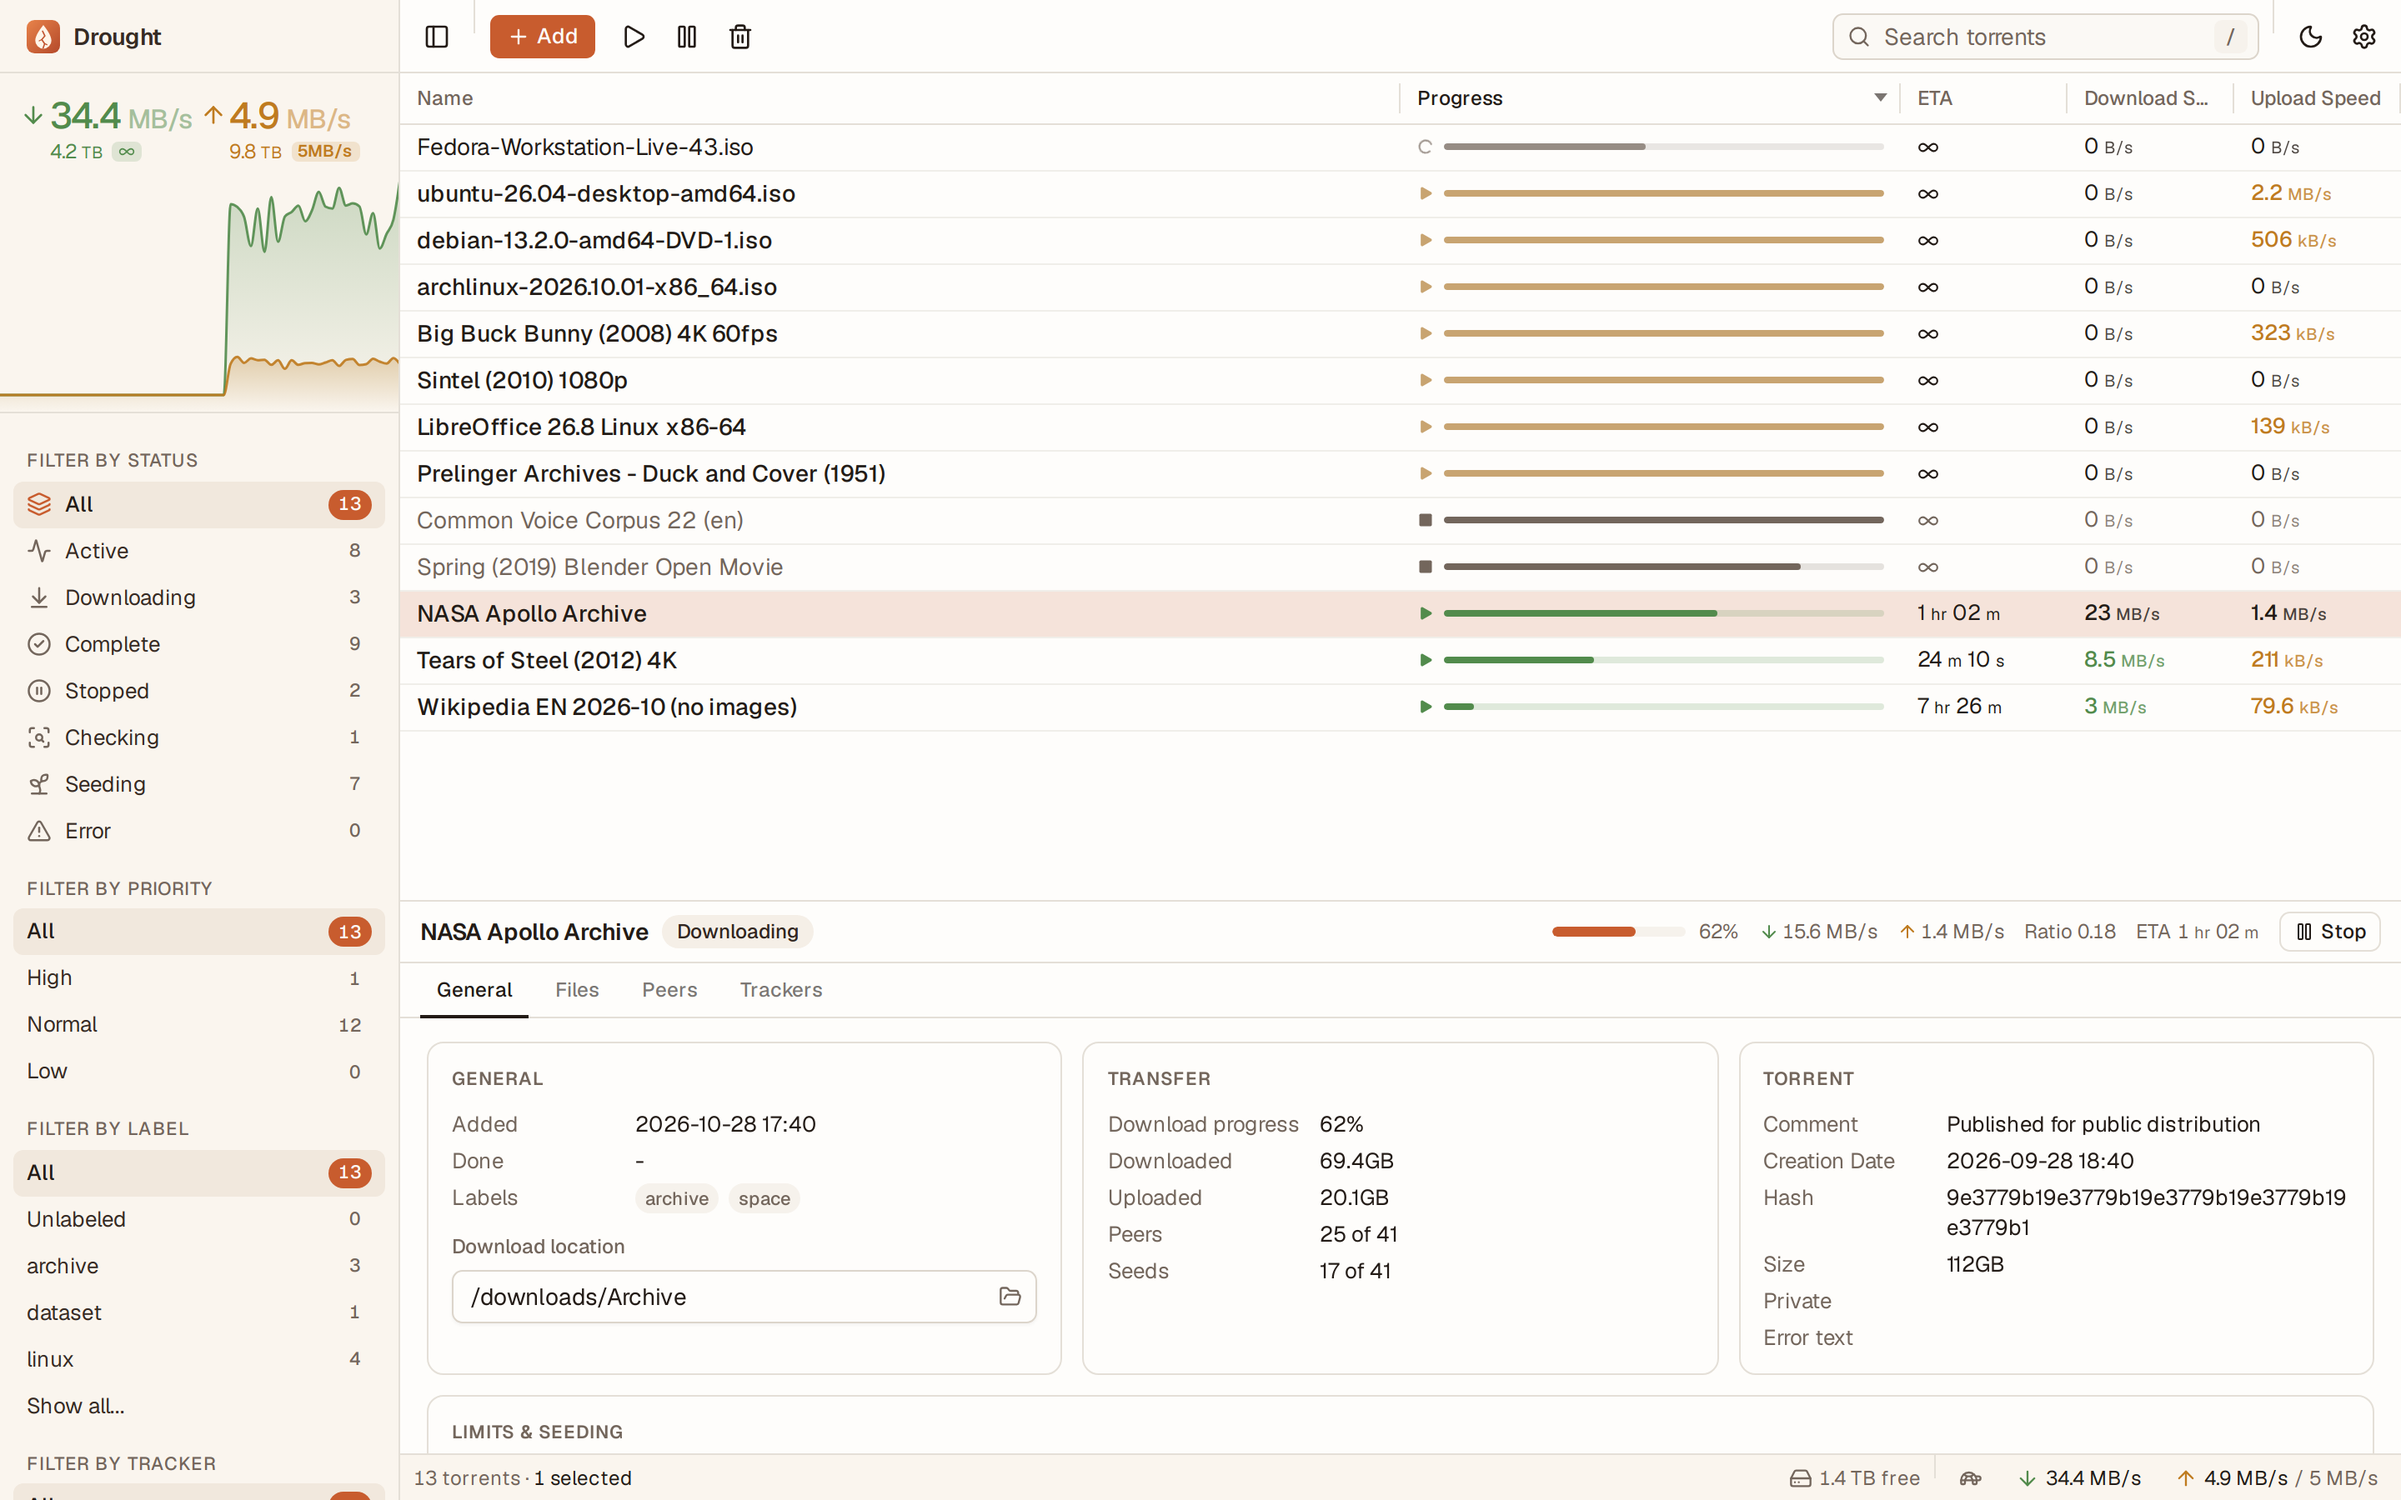
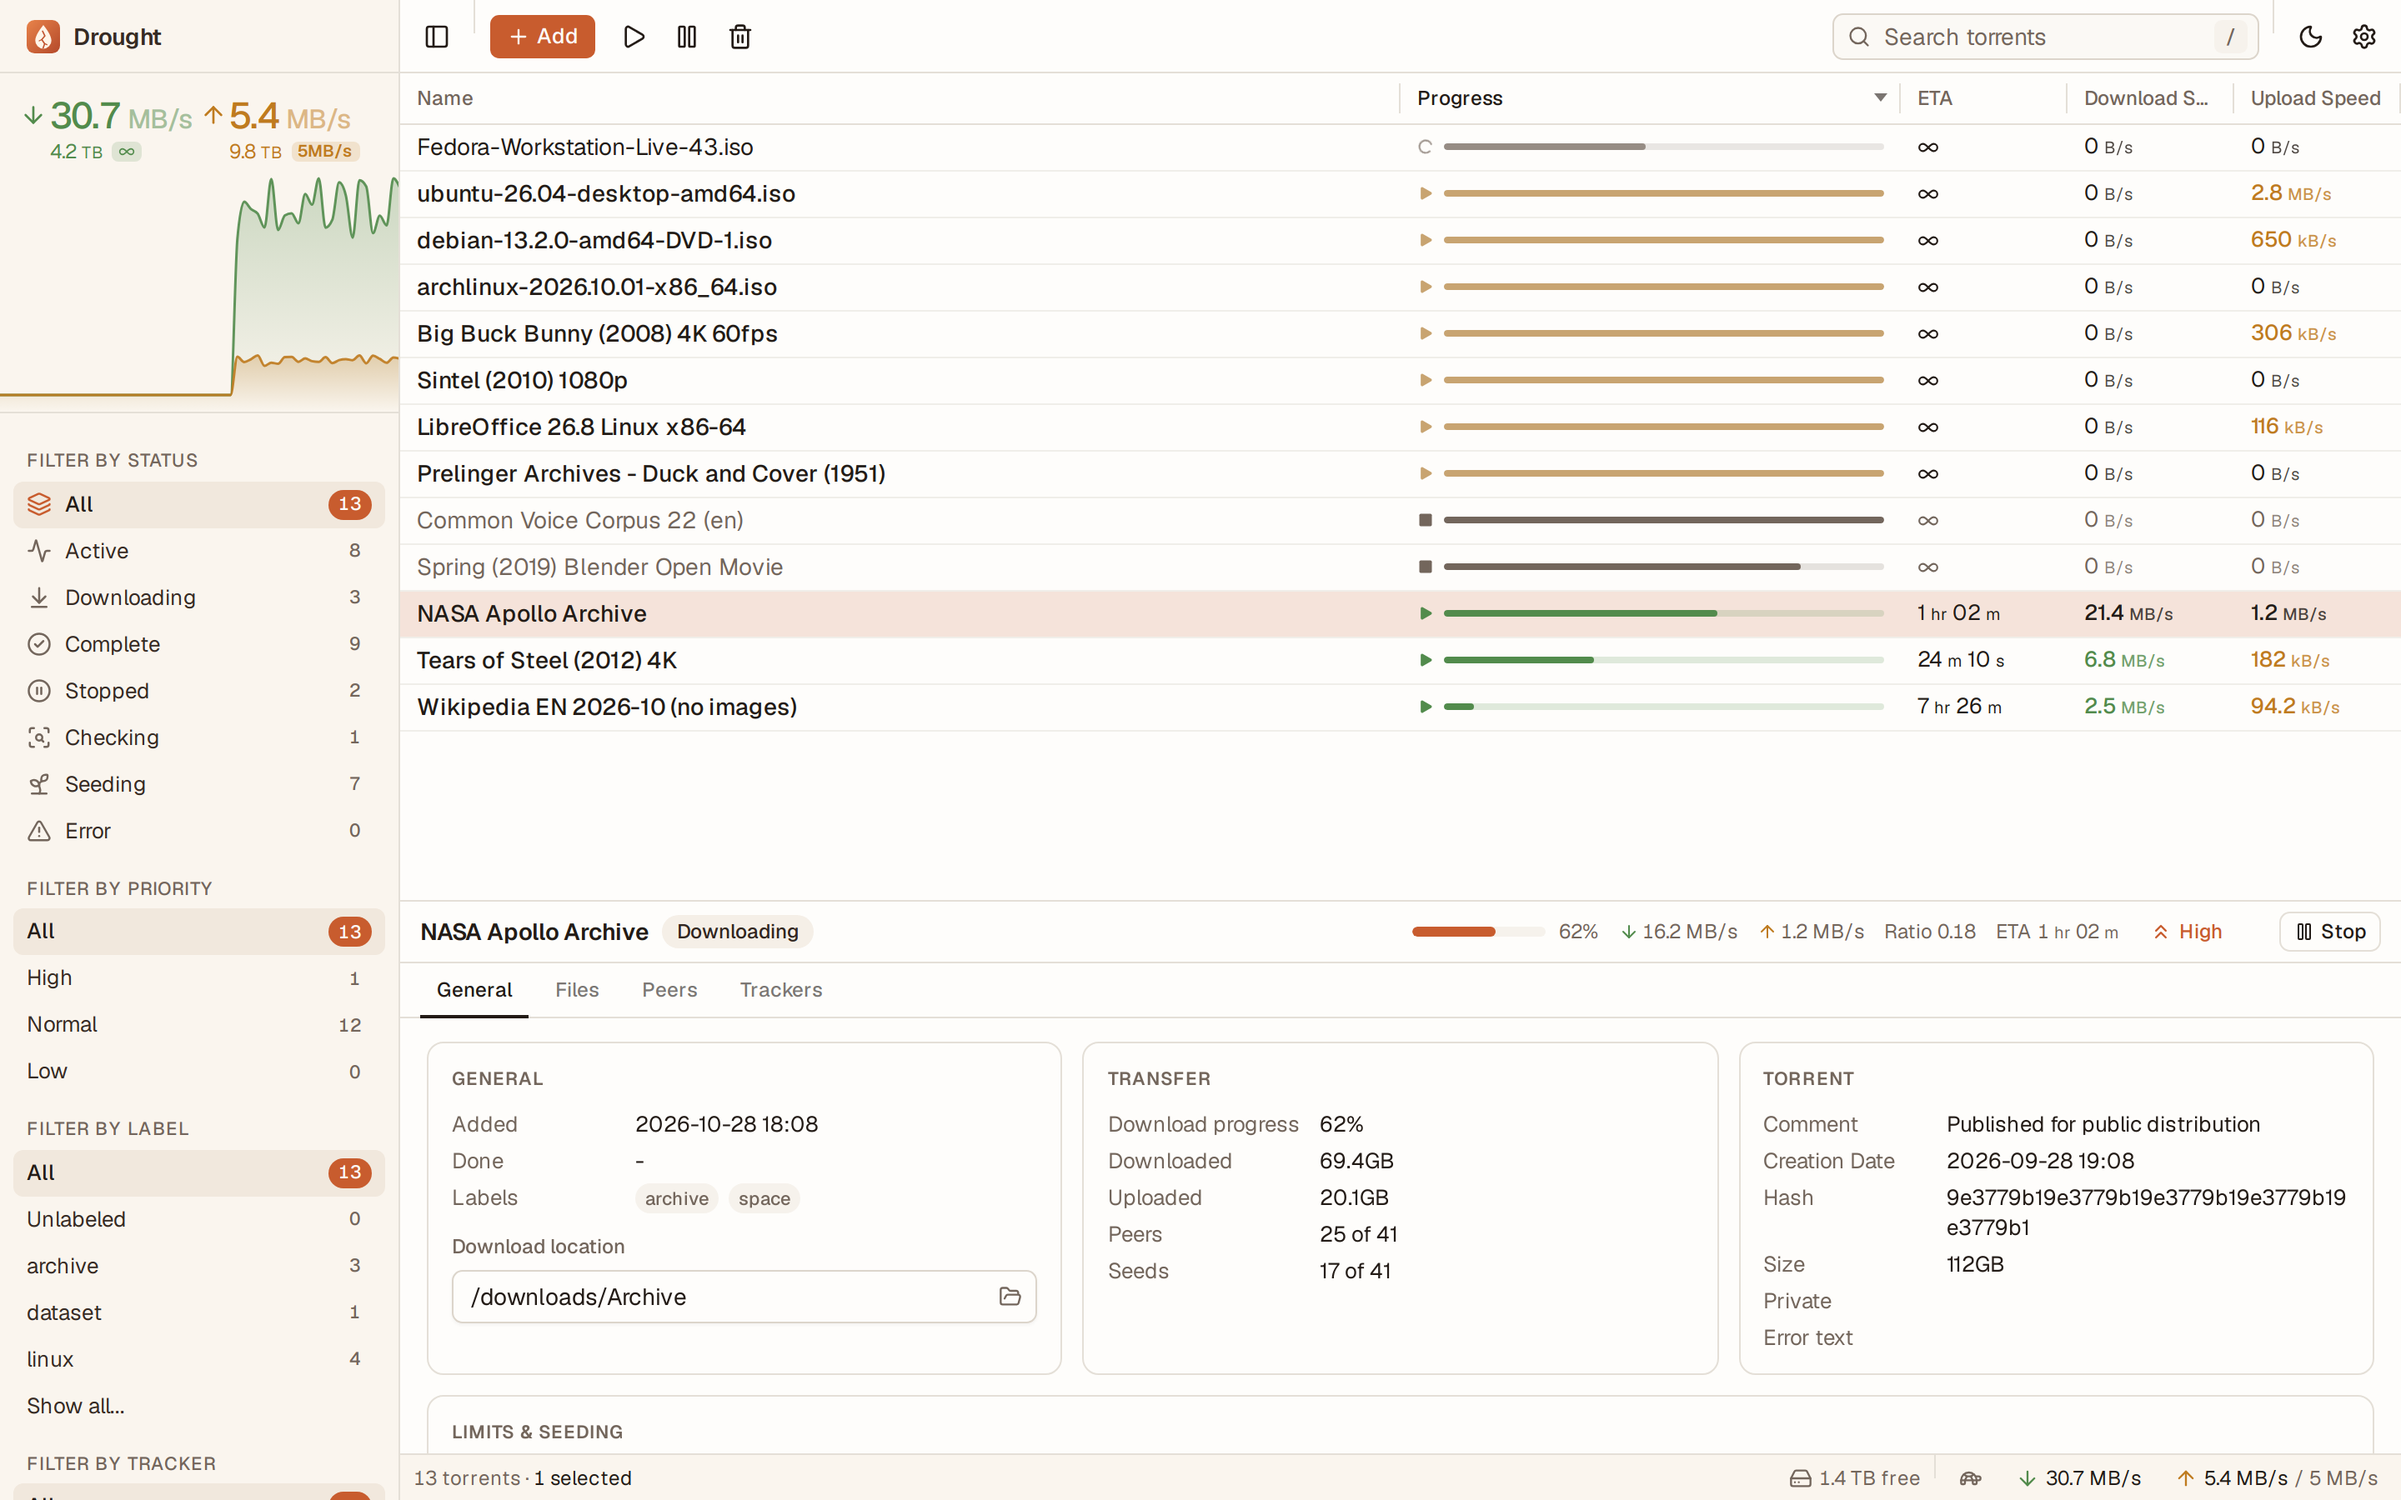
Replace the priority slider with a labeled priority menu
The slider cycled through values on click and only showed its state as a
tick position. The new control shows the priority as an icon and label
(High, Normal, Low, or Mixed for folders) and opens a menu with all
choices and what each one does.

- Used for files and folders in the Files tab, the phone details header,
  and newly the desktop details pane header (torrent priority).
- Single-choice radio menus (priority, right-click priority, speed limits)
  now close once a value is picked.
- Fix a crash when a mixed priority was passed to a radio group.
- Refresh README screenshots.

diff --git a/src/components/PriorityIndicator/PrioritySelect.svelte b/src/components/PriorityIndicator/PrioritySelect.svelte
@@ -1,0 +1,93 @@
+<script>
+  import ChevronsUpIcon from '@lucide/svelte/icons/chevrons-up';
+  import EqualIcon from '@lucide/svelte/icons/equal';
+  import ChevronsDownIcon from '@lucide/svelte/icons/chevrons-down';
+  import ShuffleIcon from '@lucide/svelte/icons/shuffle';
+  import ChevronDownIcon from '@lucide/svelte/icons/chevron-down';
+  import * as DropdownMenu from '$lib/components/ui/dropdown-menu/index.js';
+  import { cn } from '$lib/utils.js';
+
+  // value: 1 (high), 0 (normal), -1 (low) or null when a folder mixes them
+  let {
+    value,
+    onchange,
+    label = 'Priority',
+    disabled = false,
+    class: className,
+  } = $props();
+
+  const OPTIONS = [
+    {
+      value: 1,
+      label: 'High',
+      hint: 'Download before everything else',
+      icon: ChevronsUpIcon,
+      tone: 'text-primary',
+    },
+    {
+      value: 0,
+      label: 'Normal',
+      hint: 'The default',
+      icon: EqualIcon,
+      tone: 'text-muted-foreground',
+    },
+    {
+      value: -1,
+      label: 'Low',
+      hint: 'Download when nothing else needs bandwidth',
+      icon: ChevronsDownIcon,
+      tone: 'text-muted-foreground/70',
+    },
+  ];
+  const MIXED = {
+    label: 'Mixed',
+    icon: ShuffleIcon,
+    tone: 'text-muted-foreground',
+  };
+
+  const current = $derived(
+    OPTIONS.find((option) => option.value === value) ?? MIXED
+  );
+</script>
+
+<DropdownMenu.Root>
+  <DropdownMenu.Trigger
+    disabled={disabled}
+    class={cn(
+      'group/priority inline-flex h-6 items-center gap-1 rounded-md px-1.5 text-xs font-medium whitespace-nowrap transition-colors outline-none hover:bg-accent focus-visible:ring-3 focus-visible:ring-ring/40 disabled:pointer-events-none disabled:opacity-50 data-[state=open]:bg-accent',
+      current.tone,
+      className
+    )}
+    title="{label}: {current.label}"
+    aria-label="{label}: {current.label}"
+  >
+    <current.icon class="size-3.5 shrink-0" />
+    <span class="priority-label">{current.label}</span>
+    <ChevronDownIcon
+      class="size-3 shrink-0 opacity-0 transition-opacity group-hover/priority:opacity-60 group-data-[state=open]/priority:opacity-60"
+    />
+  </DropdownMenu.Trigger>
+  <DropdownMenu.Content align="end" class="w-64">
+    <DropdownMenu.Label class="text-xs text-muted-foreground">
+      {label}
+    </DropdownMenu.Label>
+    <DropdownMenu.RadioGroup
+      value={value === null || value === undefined ? '' : String(value)}
+      onValueChange={(newValue) => onchange?.(Number(newValue))}
+    >
+      {#each OPTIONS as option (option.value)}
+        <DropdownMenu.RadioItem
+          closeOnSelect
+          value={String(option.value)}
+          class="items-start"
+        >
+          <option.icon class="mt-0.5 size-4 shrink-0 {option.tone}" />
+          <span class="flex flex-col">
+            <span>{option.label}</span>
+            <span class="text-xs text-muted-foreground">{option.hint}</span>
+          </span>
+        </DropdownMenu.RadioItem>
+      {/each}
+    </DropdownMenu.RadioGroup>
+  </DropdownMenu.Content>
+</DropdownMenu.Root>

diff --git a/src/components/Modal/TorrentDetail/Files/Files.svelte b/src/components/Modal/TorrentDetail/Files/Files.svelte
@@ -23,7 +23,7 @@
   import FileIcon from '@lucide/svelte/icons/file';
   import HardDriveIcon from '@lucide/svelte/icons/hard-drive';
   import SearchIcon from '@lucide/svelte/icons/search';
-  import PriorityIndicator from '~components/PriorityIndicator';
+  import PrioritySelect from '~components/PriorityIndicator';
 
   const ROW_HEIGHT = 30;
   const OVERSCAN = 10;
@@ -137,11 +137,11 @@
     );
   };
 
-  const setRowPriority = (row, event) => {
+  const setRowPriority = (row, priority) => {
     torrentDetails.setFilesPriority(
       $torrentDetails,
       getRowFiles(row),
-      event.detail
+      priority
     );
   };
 
@@ -365,9 +365,12 @@
                 <span>{info.percent}%</span>
               </div>
               <div class="column priority">
-                <PriorityIndicator
+                <PrioritySelect
                   value={info.priority}
-                  on:click={(event) => setRowPriority(row, event)}
+                  label={row.folder !== undefined
+                    ? 'Priority of every file in this folder'
+                    : 'File priority'}
+                  onchange={(priority) => setRowPriority(row, priority)}
                 />
               </div>
             </div>
@@ -494,7 +497,7 @@
   .header-row,
   .row {
     display: grid;
-    grid-template-columns: minmax(0, 1fr) 72px 92px 48px;
+    grid-template-columns: minmax(0, 1fr) 72px 92px 92px;
     align-items: center;
     column-gap: 12px;
   }
@@ -694,6 +697,8 @@
   .header-row .progress,
   .header-row .priority {
     display: block;
+    text-align: right;
+    padding-right: 6px;
   }
 
   .header-row .size {
@@ -703,10 +708,14 @@
   .priority {
     display: flex;
     justify-content: flex-end;
-    cursor: pointer;
   }
 
   @media (max-width: 700px) {
+    /* The icon alone is enough on narrow screens */
+    .priority :global(.priority-label) {
+      display: none;
+    }
+
     .container {
       padding: 12px 16px 0;
     }
@@ -718,7 +727,7 @@
 
     .header-row,
     .row {
-      grid-template-columns: minmax(0, 1fr) 60px 36px 40px;
+      grid-template-columns: minmax(0, 1fr) 60px 36px 32px;
       column-gap: 8px;
     }
 

diff --git a/src/components/DetailsPane/DetailsPane.svelte b/src/components/DetailsPane/DetailsPane.svelte
@@ -12,6 +12,7 @@
   import Files from '~components/Modal/TorrentDetail/Files';
   import Peers from '~components/Modal/TorrentDetail/Peers';
   import Trackers from '~components/Modal/TorrentDetail/Trackers';
+  import PrioritySelect from '~components/PriorityIndicator';
   import ArrivalRenderer from '~components/TorrentList/Renderers/ArrivalRenderer.svelte';
   import {
     torrentDetails,
@@ -118,6 +119,16 @@
     }));
   };
 
+  const setPriority = (priority) => {
+    torrents.setTorrents([torrentId], {
+      [TRANSMISSION_COLUMN.PRIORITY]: priority,
+    });
+    torrentDetails.update((current) => ({
+      ...current,
+      [TRANSMISSION_COLUMN.PRIORITY]: priority,
+    }));
+  };
+
   const rename = (event) => {
     renaming = false;
     const oldName = torrent[TRANSMISSION_COLUMN.NAME];
@@ -217,6 +228,12 @@
               ETA <ArrivalRenderer value={torrent[TRANSMISSION_COLUMN.ETA]} />
             </span>
           </div>
+          <PrioritySelect
+            value={torrent[TRANSMISSION_COLUMN.PRIORITY]}
+            label="Torrent priority"
+            onchange={setPriority}
+            class="shrink-0"
+          />
           <Button
             variant="outline"
             size="xs"

diff --git a/src/components/Modal/TorrentDetail/Header/Header.svelte b/src/components/Modal/TorrentDetail/Header/Header.svelte
@@ -19,7 +19,7 @@
   } from '~helpers/constants/columns';
   import { getSize } from '~helpers/sizeHelper';
   import ArrivalRenderer from '~components/TorrentList/Renderers/ArrivalRenderer.svelte';
-  import PriorityIndicator from '~components/PriorityIndicator/PriorityIndicator.svelte';
+  import PrioritySelect from '~components/PriorityIndicator';
   import ProgressRenderer from '~components/TorrentList/Renderers/ProgressRenderer';
   import { generateTorrentStatusClass } from '~helpers/classHelper';
 
@@ -49,8 +49,7 @@
     perSize: $session[SESSION_COLUMN_UNITS]?.[SESSION_COLUMN_UNITS_SIZE],
   });
 
-  const updatePriority = (event) => {
-    const newPrio = event.detail;
+  const updatePriority = (newPrio) => {
     torrents.setTorrents([torrentId], {
       [TRANSMISSION_COLUMN.PRIORITY]: newPrio,
     });
@@ -175,10 +174,10 @@
 
     <ul class="right">
       <li class="button">
-        <PriorityIndicator
+        <PrioritySelect
           value={$torrentDetails[TRANSMISSION_COLUMN.PRIORITY]}
-          showLabel
-          on:click={updatePriority}
+          label="Torrent priority"
+          onchange={updatePriority}
         />
       </li>
       <li

diff --git a/src/components/TorrentList/TorrentContextMenu.svelte b/src/components/TorrentList/TorrentContextMenu.svelte
@@ -33,7 +33,7 @@
         .filter((torrent) => selected.has(torrent.id))
         .map((torrent) => torrent[TRANSMISSION_COLUMN_PRIORITY])
     );
-    return priorities.size === 1 ? String([...priorities][0]) : undefined;
+    return priorities.size === 1 ? String([...priorities][0]) : '';
   });
 
   const setPriority = (value) => {
@@ -87,7 +87,9 @@
     <ContextMenu.SubContent class="w-36">
       <ContextMenu.RadioGroup value={priority} onValueChange={setPriority}>
         {#each PRIORITIES as { value, label } (value)}
-          <ContextMenu.RadioItem value={value}>{label}</ContextMenu.RadioItem>
+          <ContextMenu.RadioItem closeOnSelect value={value}
+            >{label}</ContextMenu.RadioItem
+          >
         {/each}
       </ContextMenu.RadioGroup>
     </ContextMenu.SubContent>

diff --git a/src/components/StatusBar/SpeedMenu.svelte b/src/components/StatusBar/SpeedMenu.svelte
@@ -78,12 +78,12 @@
       value={$speedLimit === null ? UNLIMITED : String($speedLimit)}
       onValueChange={handleChange}
     >
-      <DropdownMenu.RadioItem value={UNLIMITED}
+      <DropdownMenu.RadioItem closeOnSelect value={UNLIMITED}
         >Unlimited</DropdownMenu.RadioItem
       >
       <DropdownMenu.Separator />
       {#each limits as limit (limit)}
-        <DropdownMenu.RadioItem value={String(limit)}>
+        <DropdownMenu.RadioItem closeOnSelect value={String(limit)}>
           {formatSpeed(limit, 'kB')}
         </DropdownMenu.RadioItem>
       {/each}

diff --git a/src/components/PriorityIndicator/index.js b/src/components/PriorityIndicator/index.js
@@ -1,1 +1,1 @@
-export { default } from './PriorityIndicator.svelte';
+export { default } from './PrioritySelect.svelte';
